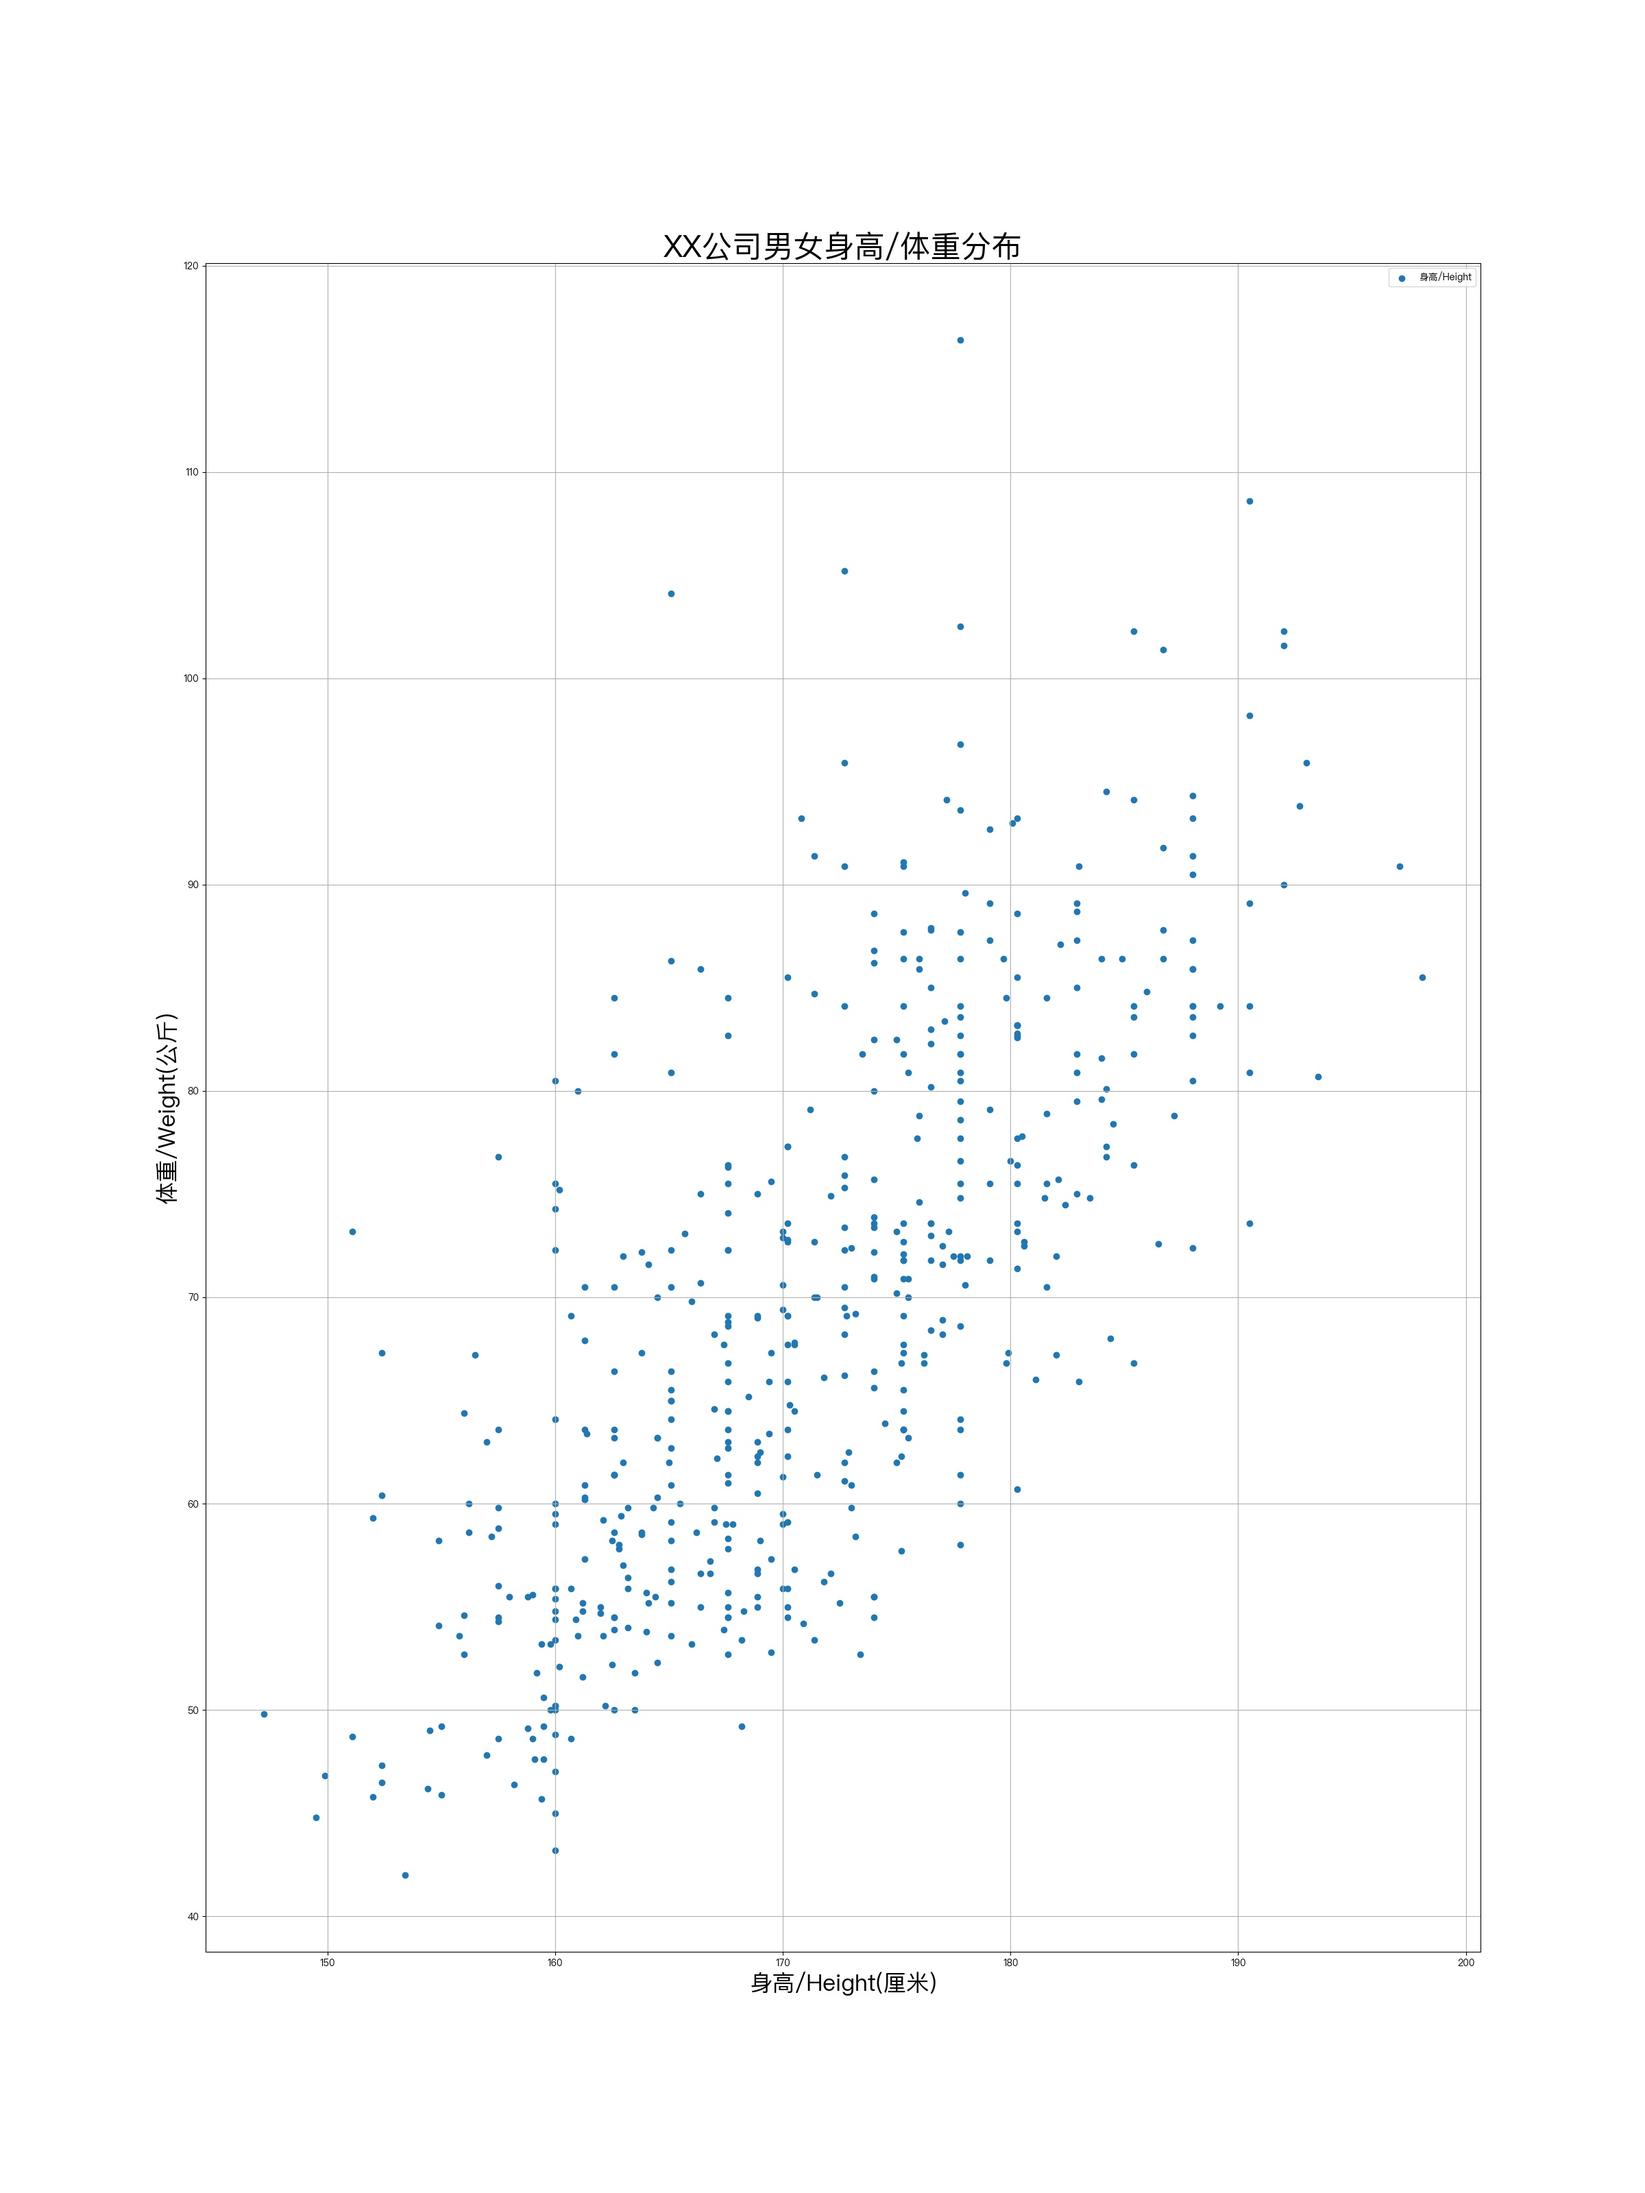
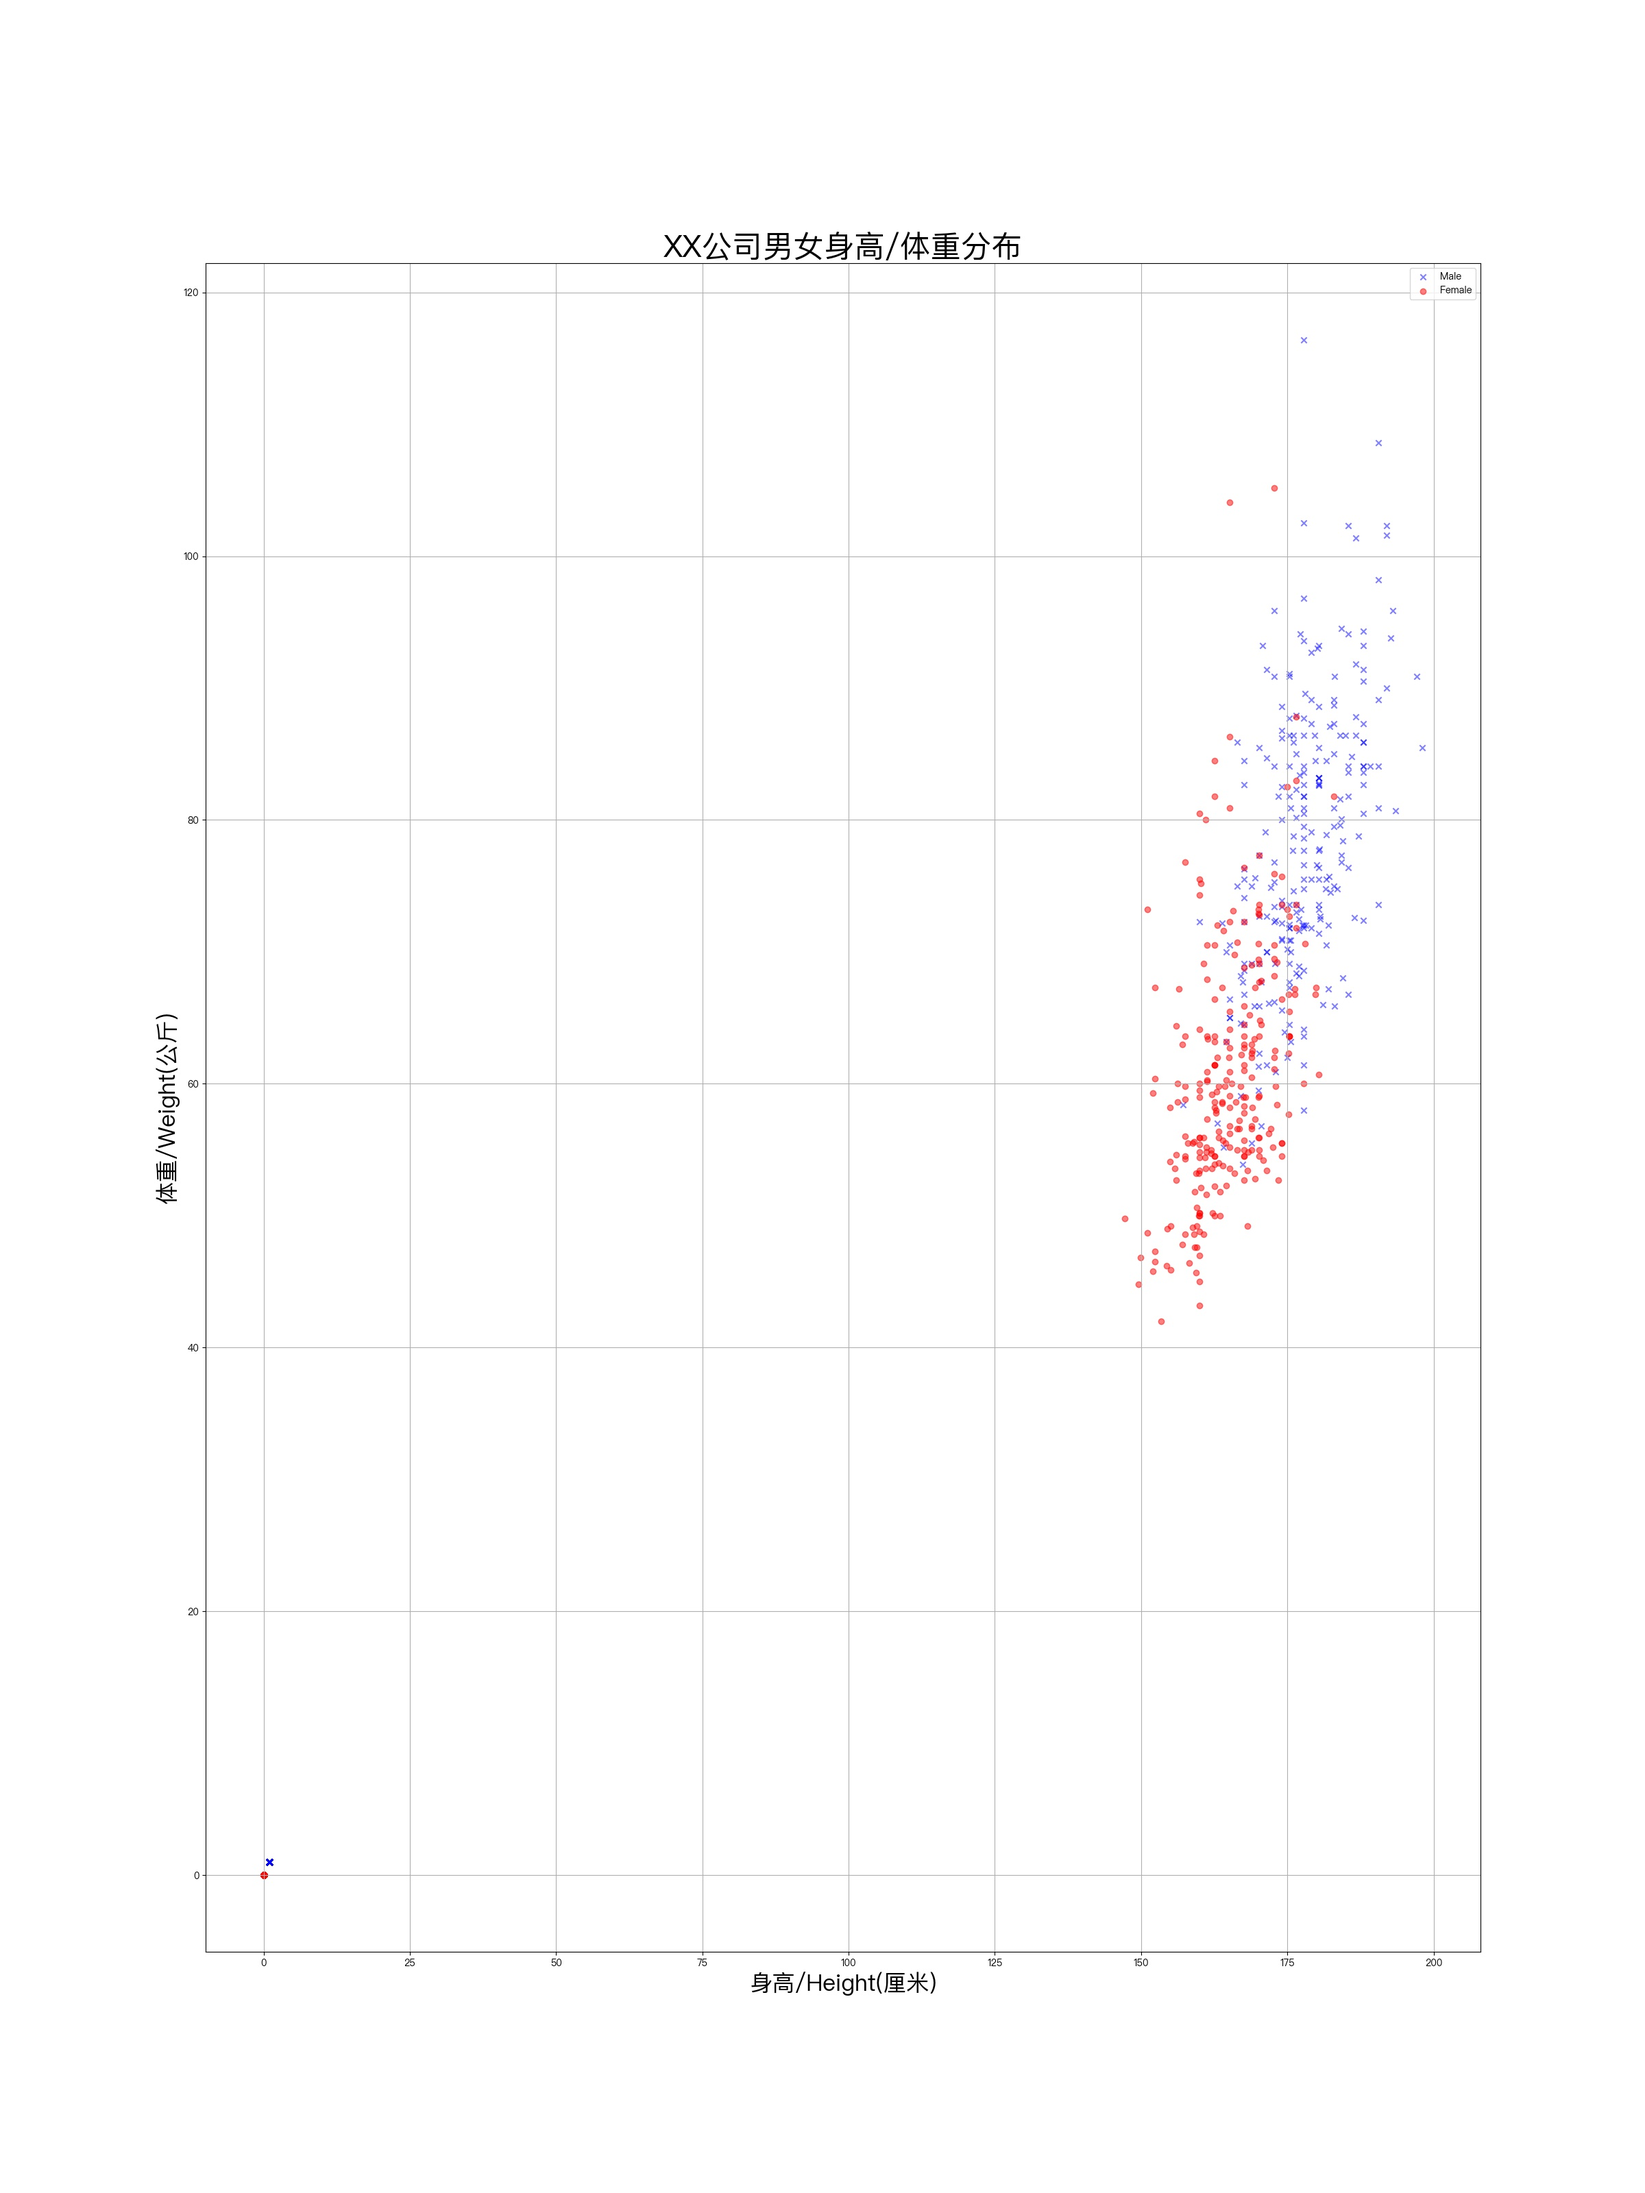
新增散点图调通代码

diff --git a/matplotlib/testHeatMap.py b/matplotlib/testHeatMap.py
@@ -1,9 +1,93 @@
 # !/usr/bin/python3
 # -*- coding: utf-8 -*-
 """
-@Description    :  
+@Description    :  热力图
 @Author         :  Anttu
 @Version        :  v1.0
 @File           :  testHeatMap.py
 @CreateTime     :  19/5/2021 01:39
 """
+
+
+import pandas as pd
+import matplotlib.pyplot as plt
+import numpy as np
+import os
+import platform
+
+# 系统
+print(platform.system())
+
+# 相对路径
+project_dir = os.path.abspath('.')
+print(project_dir)
+fileName = "heatmap.csv"
+outFileName = "request_heatmap.jpg"
+
+fontName = "SimHei"
+if platform.system() == 'Windows':
+    print('Windows系统')
+    fontName = ["SimHei"]
+elif platform.system() == 'Linux':
+    print('Linux系统')
+    fontName = ["SimHei"]
+elif platform.system() == 'Darwin':
+    print('MacOS系统')
+    fontName = ["PingFang HK"]
+else:
+    print('其他')
+
+# Mac字体 PingFang HK
+# win字体 SimHei
+plt.rcParams['font.sans-serif'] = fontName
+plt.rcParams['font.family'] = 'sans-serif'
+# 解决负号'-'显示为方块的问题
+plt.rcParams['axes.unicode_minus'] = False
+
+filePath = os.sep.join([project_dir, fileName])
+outPath = os.sep.join([project_dir, outFileName])
+
+# 全路径
+# filePath = "D:\\request.csv"
+# outPath = "D:\\request.jpg"
+
+
+def main():
+    # 使用python下pandas库读取csv文件
+    data_nba = pd.read_csv(filePath, encoding='utf-8')
+    # 读取列名
+    score = data_nba.loc[:, "G":"PF"].values
+    # 名称列
+    name = data_nba.iloc[:, 0]
+    # 技术指标行
+    col = data_nba.loc[:, "G":"PF"].columns
+
+    # 设置画布
+    fig = plt.figure(dpi=100, figsize=(24, 32))
+    # 散点图的变种气泡图
+    im = plt.imshow(score, cmap='plasma_r')
+    # 设置X轴刻度
+    plt.xticks(np.arange(len(col)), col.values)
+    # 设置Y轴刻度
+    plt.yticks(np.arange(len(name)), name.values)
+    # 显示图例
+    # plt.legend()
+    # 设置颜色条
+    fig.colorbar(im, pad=0.03)
+    # X坐标-横坐标标题
+    plt.xlabel(u'技术指标', size=24)
+    # Y坐标-纵坐标标题
+    plt.ylabel(u'姓名', size=24)
+    # 统计图的标题
+    plt.title(u"NBA Average Performance (Top 50 Players)", size=32)
+    # 网格
+    plt.grid(True)
+    # 在展示图片前可以将画出的曲线保存到自己路径下的文件夹中
+    plt.savefig(outPath)
+    # 显示图像
+    plt.show()
+    print("all picture is starting")
+
+
+if __name__ == "__main__":
+    main()

diff --git a/matplotlib/testBubble.py b/matplotlib/testBubble.py
@@ -1,11 +1,11 @@
 # !/usr/bin/python3
 # -*- coding: utf-8 -*-
 """
-@Description    :  直方图
+@Description    :  气泡图
 @Author         :  Anttu
 @Version        :  v1.0
-@File           :  testHist.py
-@CreateTime     :  1/5/2021 11:24
+@File           :  testBubble.py
+@CreateTime     :  7/6/2021 15:38
 """
 
 import pandas as pd
@@ -20,8 +20,8 @@ print(platform.system())
 # 相对路径
 project_dir = os.path.abspath('.')
 print(project_dir)
-fileName = "hist.csv"
-outFileName = "request_hist.jpg"
+fileName = "bubble.csv"
+outFileName = "request_bubble.jpg"
 
 fontName = "SimHei"
 if platform.system() == 'Windows':
@@ -55,25 +55,25 @@ def main():
     # 使用python下pandas库读取csv文件
     data = pd.read_csv(filePath, encoding='utf-8')
     # 读取列名
-    round1_list = data.loc[:, '科目1成绩']
-    round2_list = data.loc[:, '科目2成绩']
-    round3_list = data.loc[:, '科目3成绩']
-    round4_list = data.loc[:, '科目4成绩']
-    # round_list = data.loc[[1, 2, 3, 4]]
-    c = ['r', 'b', 'g', 'y']
+    value = data.loc[:, ]
+
+    x = value['x']
+    y = value['y']
+    s = value['size']*200
+    colors = value['size']
 
     # 设置画布
     plt.figure(dpi=100, figsize=(24, 32))
-    # 直方图
-    plt.hist([round1_list, round2_list, round3_list, round4_list], histtype='bar', color=c, rwidth=0.8)
+    # 散点图的变种气泡图
+    plt.scatter(x, y, s=s, c=colors, label='Size值分布', alpha=0.5)
     # 显示图例
-    plt.legend(('科目1', '科目2', '科目3', '科目4'))
+    # plt.legend('Size')
     # X坐标-横坐标标题
-    plt.xlabel(u'科目成绩/区间', size=24)
+    plt.xlabel(u'X坐标刻度', size=24)
     # Y坐标-纵坐标标题
-    plt.ylabel(u'科目成绩/频率', size=24)
+    plt.ylabel(u'Y坐标刻度', size=24)
     # 统计图的标题
-    plt.title(u"XX驾校成绩", size=32)
+    plt.title(u"XX值分布气泡图", size=32)
     # 网格
     plt.grid(True)
     # 在展示图片前可以将画出的曲线保存到自己路径下的文件夹中

diff --git a/matplotlib/testScatter.py b/matplotlib/testScatter.py
@@ -1,7 +1,7 @@
 # !/usr/bin/python3
 # -*- coding: utf-8 -*-
 """
-@Description    :  
+@Description    :  散点图
 @Author         :  Anttu
 @Version        :  v1.0
 @File           :  testScatter.py
@@ -55,17 +55,22 @@ def main():
     # 使用python下pandas库读取csv文件
     data = pd.read_csv(filePath, encoding='utf-8')
     # 读取列名
-    total_data = data.loc[:, ]
-
-    height = total_data['身高']
-    weight = total_data['体重']
+    height = data.loc[:, ['性别', '身高']]
+    weight = data.loc[:, ['性别', '体重']]
+    # 身高
+    male_height = height.loc[height['性别'] == 1]
+    female_height = height.loc[height['性别'] == 0]
+    # 体重
+    male_weight = weight.loc[weight['性别'] == 1]
+    female_weight = weight.loc[weight['性别'] == 0]
 
     # 设置画布
     plt.figure(dpi=100, figsize=(24, 32))
     # 散点图
-    plt.scatter(height, weight)
+    plt.scatter(male_height, male_weight, marker='x', color='b', alpha=0.5)
+    plt.scatter(female_height, female_weight, color='r', alpha=0.5)
     # 显示图例
-    plt.legend(('身高/Height', '体重/Weight'))
+    plt.legend(('Male', 'Female'))
     # X坐标-横坐标标题
     plt.xlabel(u'身高/Height(厘米)', size=24)
     # Y坐标-纵坐标标题

diff --git a/matplotlib/testThetaGrids.py b/matplotlib/testThetaGrids.py
@@ -1,0 +1,9 @@
+# !/usr/bin/python3
+# -*- coding: utf-8 -*-
+"""
+@Description    :  
+@Author         :  Anttu
+@Version        :  v1.0
+@File           :  testThetaGrids.py
+@CreateTime     :  7/6/2021 20:23
+"""
